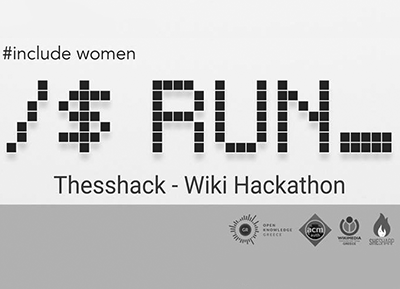
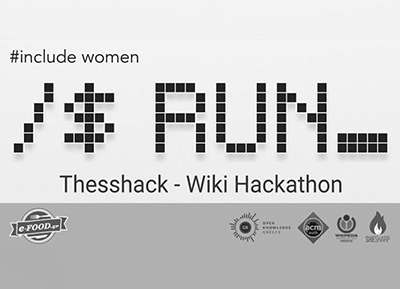
add e-food sponsorship on thesshack event

diff --git a/index.html b/index.html
@@ -1069,7 +1069,8 @@
 
                             <p class="item-intro text-muted">
                               It's time to come together and use technology to transform ideas into reality! <br>
-                              Τhesshack is a hackathon aimed to improve the way Wikipedia, our favourite online encyclopaedia, works. Just bring your laptop and your good mood and we promise a great event, full of creativity in an inspiring venue! Also, Wikimedia Österreich offers 2 full scholarships to attend Wikimedia Hackathon 2017 in Vienna (May 19-21) to the participants.
+                              Τhesshack is a hackathon aimed to improve the way Wikipedia, our favourite online encyclopaedia, works. Just bring your laptop and your good mood and we promise a great event, full of creativity in an inspiring venue! Also, Wikimedia Österreich offers 2 full scholarships to attend Wikimedia Hackathon 2017 in Vienna (May 19-21) to the participants.<br>
+							  Food is kindly sponsored from <a href="https://www.e-food.gr/" target="_blank">e-food.gr</a>!
                             </p>
 
                             <p class="item-intro text-muted">
@@ -1084,12 +1085,14 @@
                               10:00–10:10 DBpedia<br>
                               10:10–10:20 AutoWikiBrowser<br>
                               10:20–10:30 Phabricator<br>
-                              10:30–10:50 theSShack Guidelines<br>
-                              10:50–13:30 Hacking<br>
+                              10:30–10:40 API<br>
+                              10:40–11:00 theSShack Guidelines<br>
+                              11:00–13:30 Hacking<br>
                               13:30–14:30 Food &amp; Networking Break<br>
                               14:30–18:30 Hacking<br>
                               18:30–19:00 Closing Ceremony – Awards<br>
-                              19:00-03:00 After party
+                              19:00–20:00 Pizza time! (sponsored by <a href="https://www.e-food.gr/" target="_blank">e-food.gr</a>)<br>
+                              20:00-03:00 After party
                             </p>
 
                             <ul class="list-inline">
